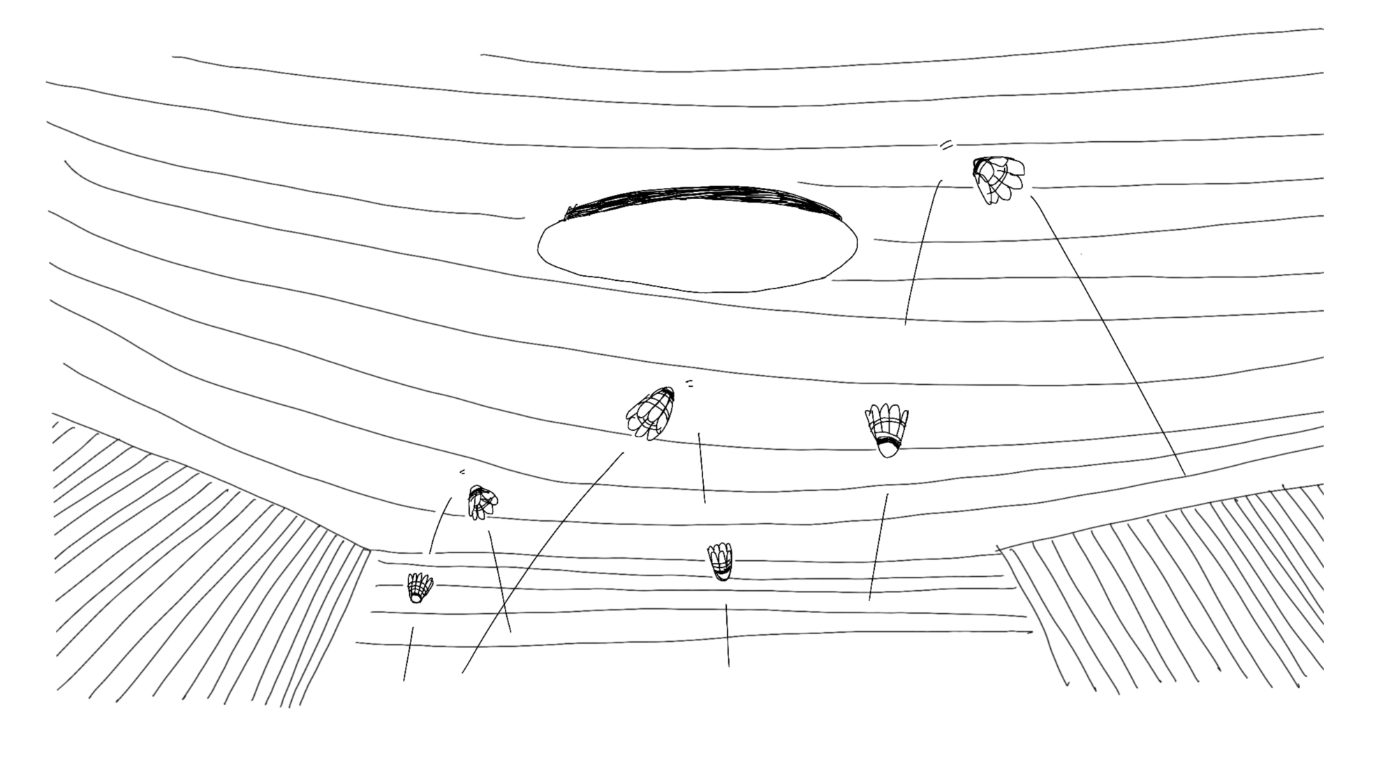
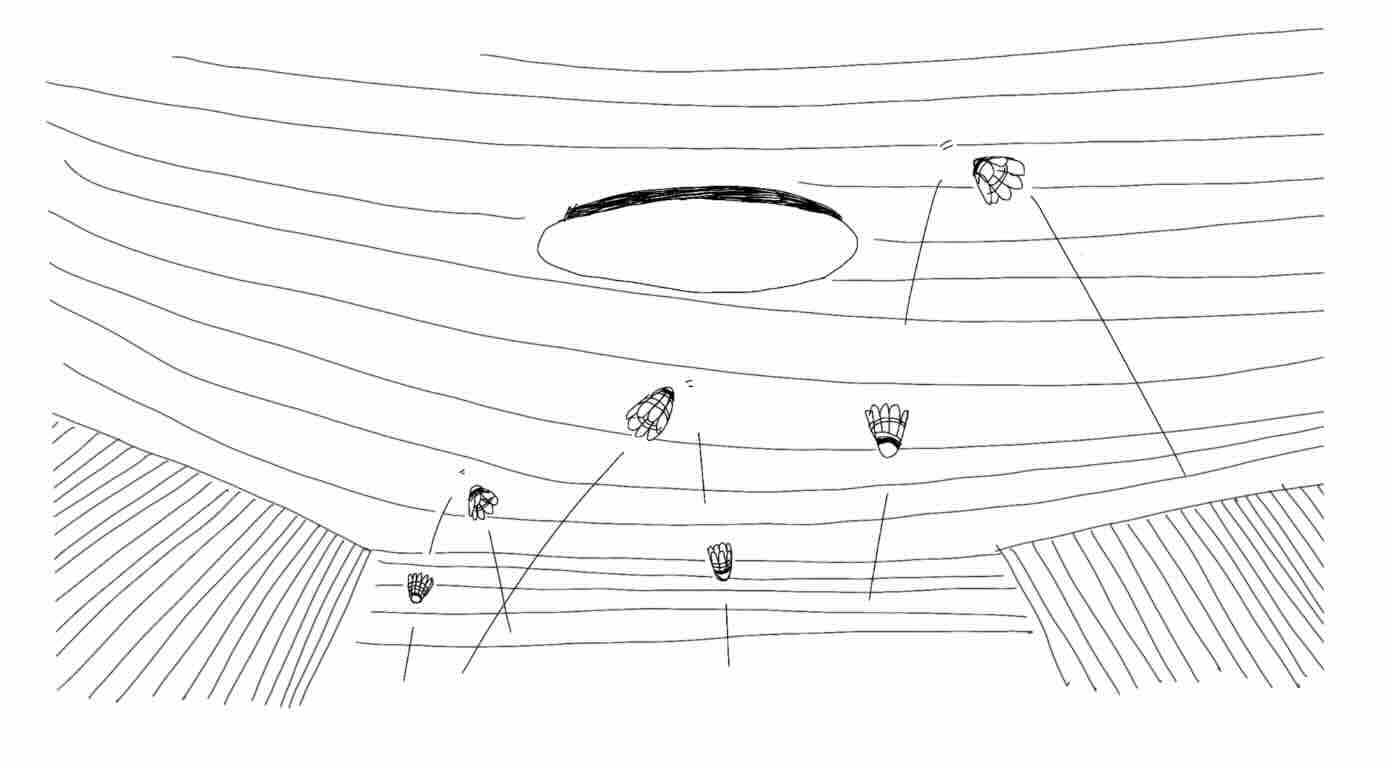
改瀑布流

diff --git a/index.html b/index.html
@@ -189,7 +189,7 @@
     <div class="catalog-grid">
       <a href="ami.html" class="catalog-card">
         <div class="preview-box">
-          <img src="ami_preview.png" alt="阿米">
+          <img src="ami_preview.jpg" alt="阿米">
         </div>
         <p class="card-title"> 阿 米 </p>
       </a>
@@ -201,19 +201,19 @@
       </a>
       <a href="princess.html" class="catalog-card">
         <div class="preview-box">
-          <img src="princess_preview.PNG" alt="公主奇遇记">
+          <img src="princess_preview.jpg" alt="公主奇遇记">
         </div>
         <p class="card-title"> 公 主 奇 遇 记 </p>
       </a>
       <a href="neveragain.html" class="catalog-card">
         <div class="preview-box">
-          <img src="neveragain_preview.png" alt="不画了">
+          <img src="neveragain_preview.jpg" alt="不画了">
         </div>
         <p class="card-title"> 不 画 了 </p>
       </a>
       <a href="misc.html" class="catalog-card">
         <div class="preview-box">
-          <img src="misc_preview.JPG" alt="杂">
+          <img src="misc_preview.jpg" alt="杂">
         </div>
         <p class="card-title"> 杂 多 </p>
       </a>